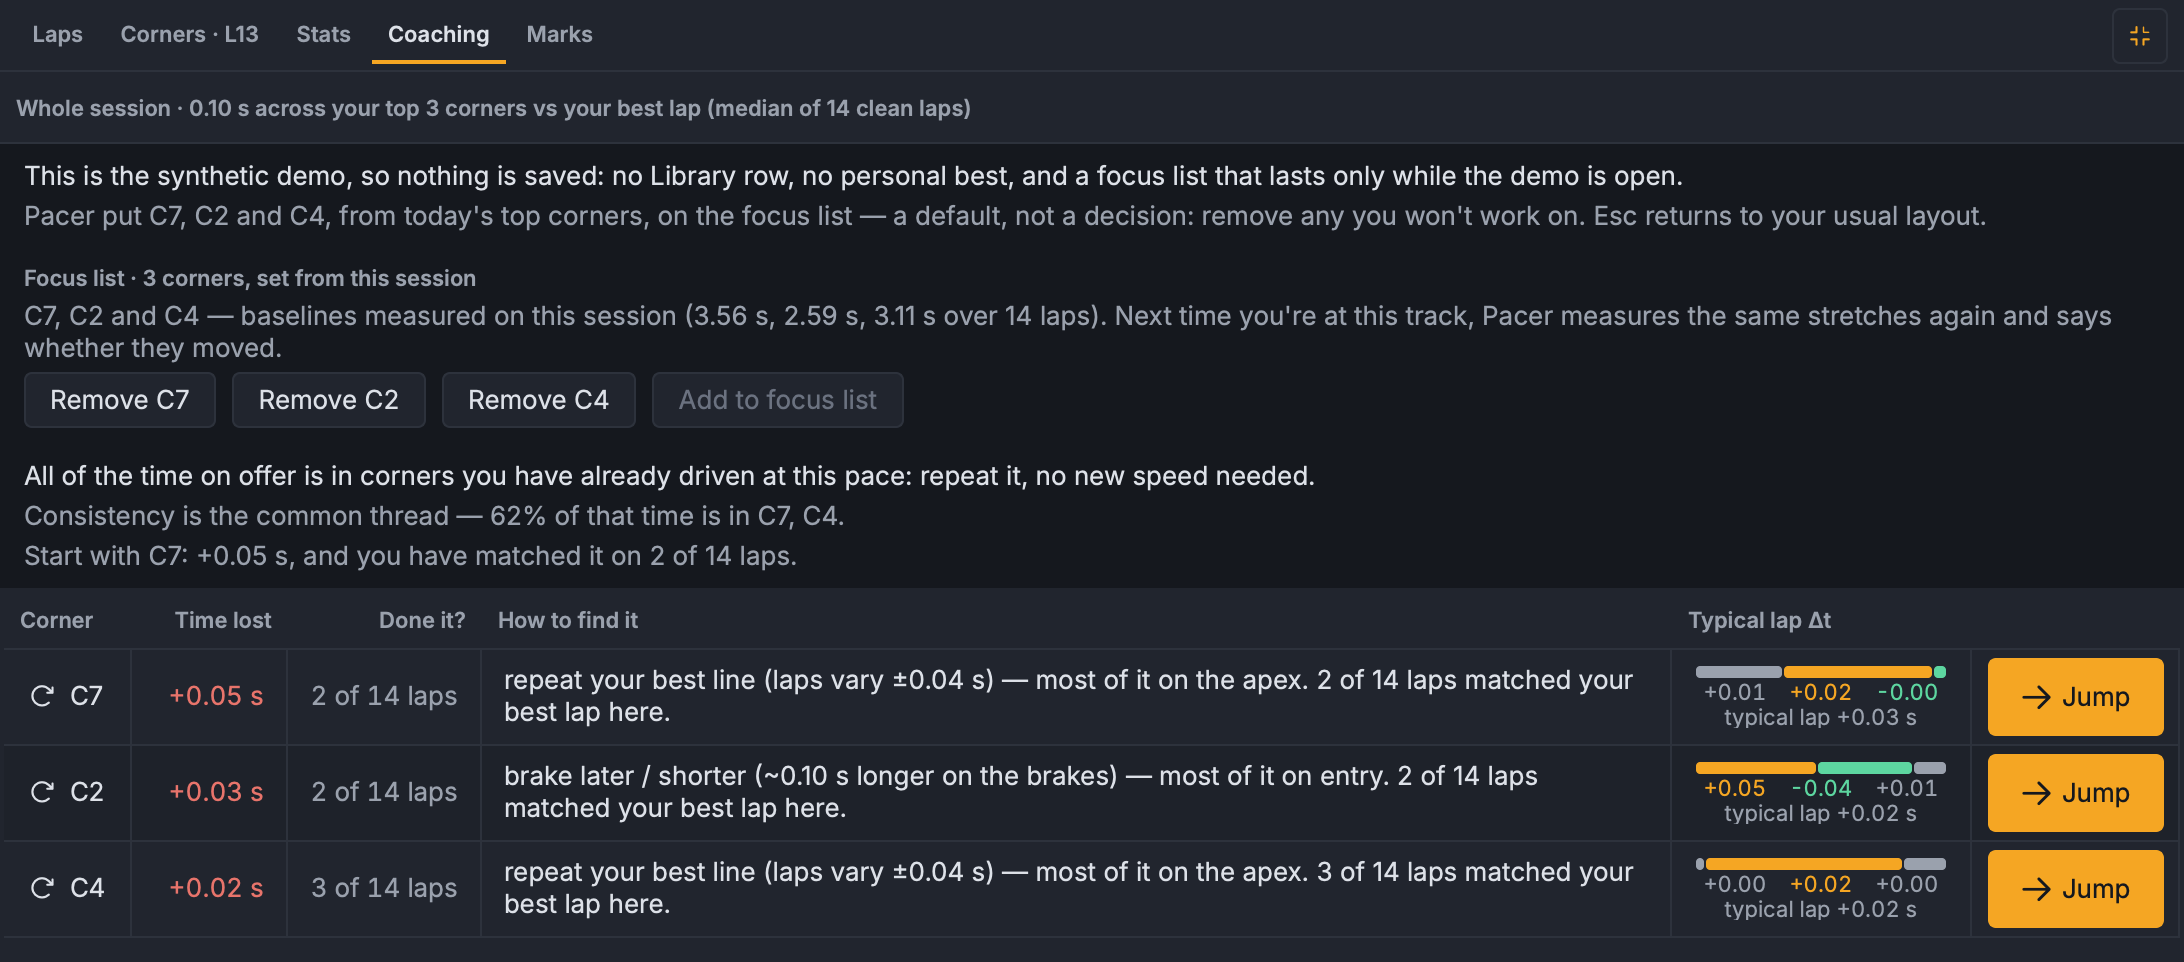
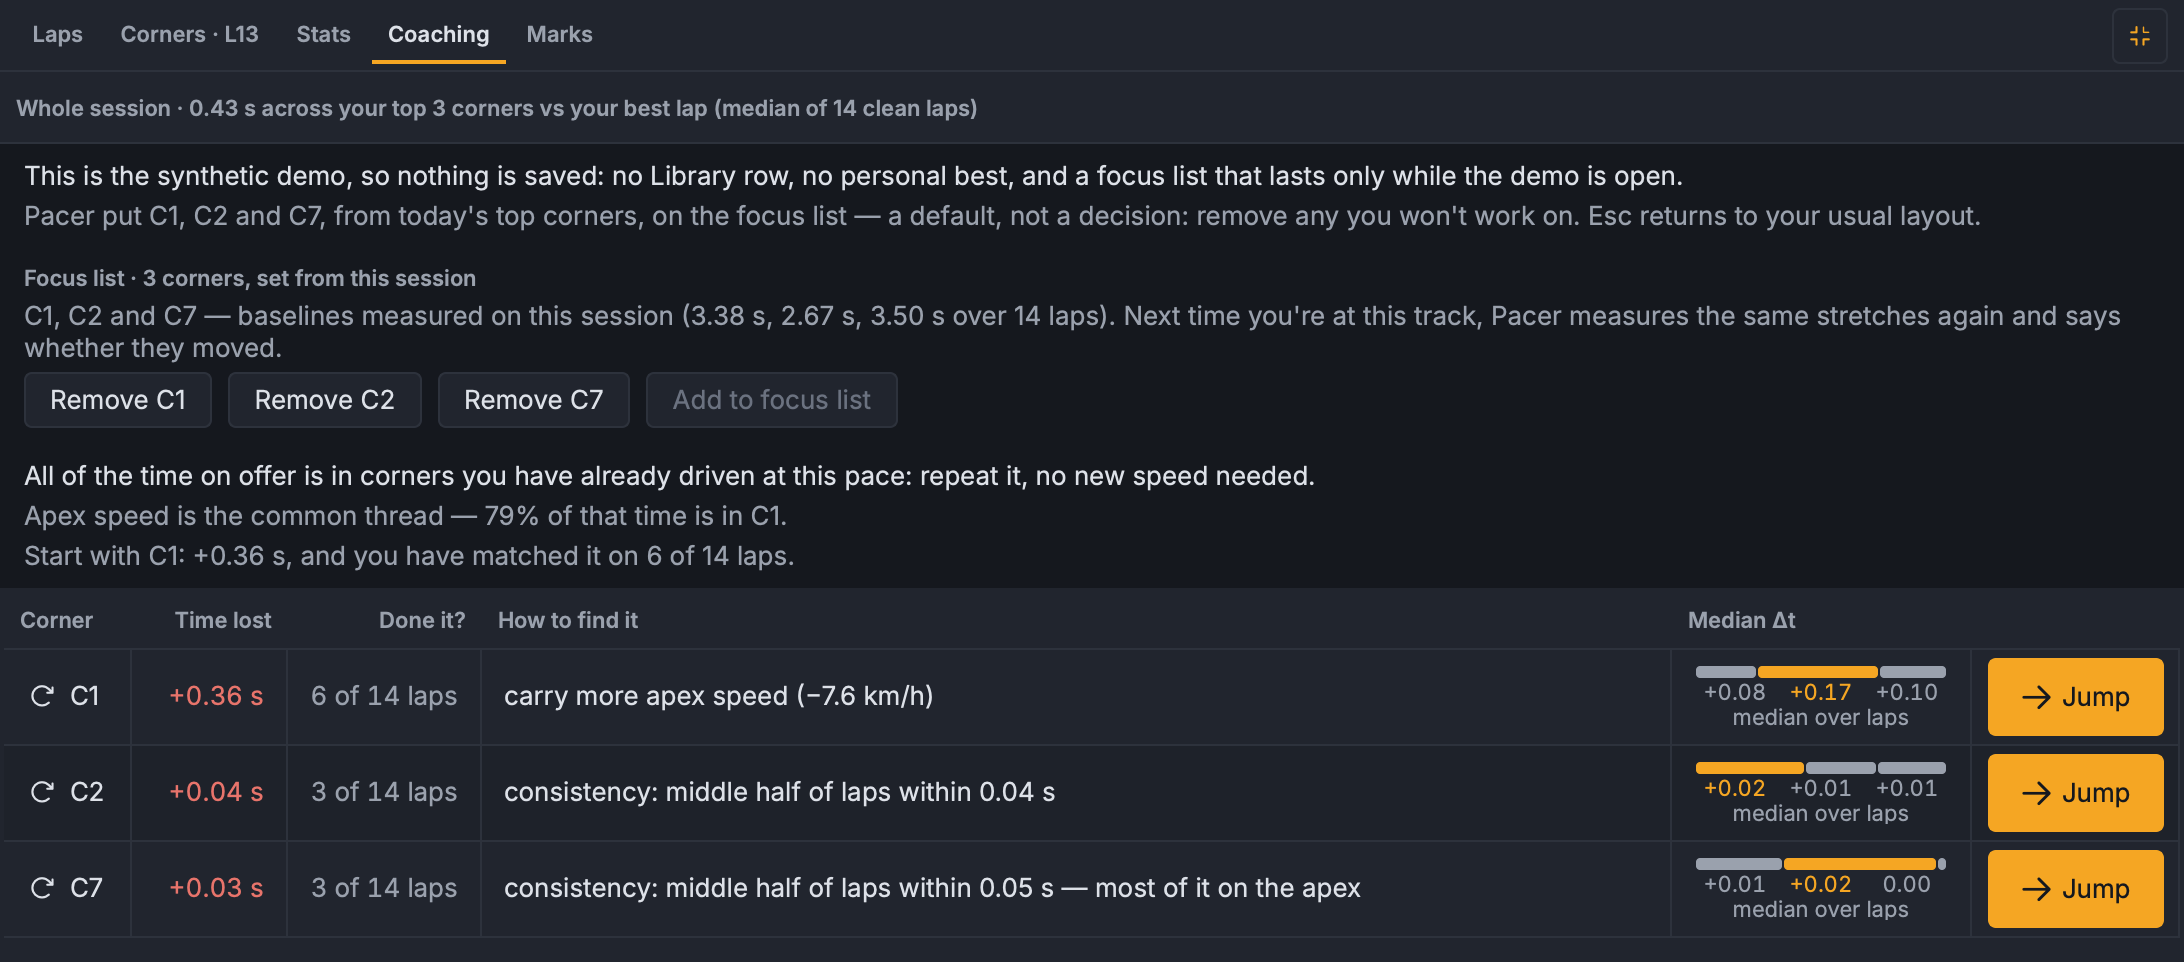
DEMO-1: docs name the pinned demo tag and the planted habit; re-shoot debrief.png on v2
debrief.png is the demo's first open, so the data change forces its re-shoot
(media_capture --only debrief, PACER_DEMO_MP4 = the built v2 file); no other
docs/media file is re-shot. PACKAGING's re-publish procedure names all three
pins and the per-tag cache; FIRST_LAP gets one sentence on the habit.

diff --git a/tests/test_sync_truth.py b/tests/test_sync_truth.py
@@ -15,7 +15,8 @@ the painted point onto the circuit's true centreline and dividing by the true sp
 
 MEASURED (fixed seed, every 3rd frame while moving; one frame at 29.97 fps is 33.4 ms). "Before" is
 this test with both of X2's defects planted back (lag 0.2 s case; the harness stops at the first
-failure), and it reproduces what B2 measured on the published demo, +125 ms (p10 +79, p90 +171):
+failure), and it reproduces what B2 measured on the first published demo (demo-data-v1), +125 ms
+(p10 +79, p90 +171):
 
                                 before X2                       after X2 (all three cases)
     map dot, median             +122.5 ms (p10 +76, p90 +171)   +17.7 .. +19.0 ms

diff --git a/docs/PACKAGING.md b/docs/PACKAGING.md
@@ -120,18 +120,27 @@ python -m studio --demo            # open the synthetic demo session on startup
 Resolution order (`studio/demo.py`):
 
 1. **`PACER_DEMO_MP4`** — an explicit path to a recording you already have.
-2. a cached copy under `~/Library/Application Support/pacer/demo/`.
-3. a **one-time download** of `pacer-demo.mp4` from the `demo-data-v1` pre-release into that
-   cache, kept only if its sha256 matches `_DEMO_SHA256` (override the URL with `PACER_DEMO_URL`).
-   If offline / the download fails, the app falls back to the empty welcome state — it still
-   launches.
+2. a cached copy under `~/Library/Application Support/pacer/demo/<tag>/`, one folder per pinned
+   pre-release (`_DEMO_TAG`): the cache is trusted by existence, so a copy of an older demo is
+   never found again once the pin moves.
+3. a **one-time download** of `pacer-demo.mp4` from the pinned demo-data pre-release
+   (`studio/demo._DEMO_TAG`) into that cache, kept only if its sha256 matches `_DEMO_SHA256`
+   (override the URL with `PACER_DEMO_URL`). If offline / the download fails, the app falls back
+   to the empty welcome state — it still launches.
 
 **The welcome screen's "Open demo" button is gated on steps 1–2 only** (`demo.demo_available()`, an
 offline path lookup), so the app never probes the network on its own; `--demo` on the command line
 runs the full order, download included, and the cache then offers the button on every later
 launch. **Recording the demo video: set `PACER_DEMO_MP4`** and the button points at your clip.
 
+The demo is not a clean session on purpose: since `demo-data-v2` it carries one planted habit
+(`make_demo.DEMO_HABIT`: C1, on 8 of its 14 flying laps), so its debrief has a real call to make
+and a reader can check it against the truth.
+
 To re-publish the demo: `pixi run make-demo -- --out pacer-demo.mp4` (deterministic: the same code
-and pixi env give the same bytes), attach it to a NEW `demo-data-vN` pre-release, and move
-`_DEMO_URL` and `_DEMO_SHA256` in `studio/demo.py` (and `make_demo.PUBLISHED_LAP_MS` if the
-telemetry changed) in the same PR. Do **not** commit it to git.
+and pixi env give the same bytes), attach it to a NEW `demo-data-vN` pre-release as an asset named
+exactly `pacer-demo.mp4`, and in the same PR move the three pins in `studio/demo.py` —
+`_DEMO_TAG` (the URL is built from it, and so is the cache folder), `_DEMO_SHA256` and
+`_DEMO_BYTES` — plus `make_demo.PUBLISHED_LAP_MS` if the telemetry changed. **Never delete or
+replace an older `demo-data-vN`:** older clones pin its exact bytes. Do **not** commit the file to
+git.

diff --git a/studio/docs/module-notes.md b/studio/docs/module-notes.md
@@ -397,7 +397,7 @@ The **session record** (pacer-free AND Qt-free): one record per recording — co
 
 ## `demo.py`
 
-**Demo recording resolution** for `--demo` / the welcome "Open demo": resolves the SYNTHETIC demo session (`studio/dev/make_demo.py`; fetched once at runtime, never committed) via `PACER_DEMO_MP4` → cache → the `demo-data-v1` release asset, kept only if its sha256 is the pinned one. The clips bundled in the `.app` have no real laps, so a first-run user would see an empty studio without this. `demo_available()` is the OFFLINE half (env/cache, no network) and is what gates the welcome button — it was born while the asset was unpublished, and it still keeps the app off the network unless `--demo` asks.
+**Demo recording resolution** for `--demo` / the welcome "Open demo": resolves the SYNTHETIC demo session (`studio/dev/make_demo.py`; fetched once at runtime, never committed) via `PACER_DEMO_MP4` → cache (one folder per pinned tag, so an older demo's copy is never found again) → the pinned demo-data pre-release's asset (`_DEMO_TAG`), kept only if its sha256 is the pinned one. The clips bundled in the `.app` have no real laps, so a first-run user would see an empty studio without this. `demo_available()` is the OFFLINE half (env/cache, no network) and is what gates the welcome button — it was born while the asset was unpublished, and it still keeps the app off the network unless `--demo` asks.
 
 ## `playback_state.py`
 

diff --git a/docs/FIRST_LAP.md b/docs/FIRST_LAP.md
@@ -25,7 +25,9 @@ Your personal best and focus list wait for the whole recording, so part of one n
 > orientation. No person, kart, place or camera footage is in it. Its video is a rendered slate that
 > says so on every frame, with a running timecode and a dot at the kart's true position, so you can
 > check Pacer's map against the picture yourself. The circuit is one Pacer ships, so step 2 below
-> is done for you and the timing opens verified. After that first run the welcome screen offers
+> is done for you and the timing opens verified. One habit is planted in it on purpose — on 8 of
+> its 14 laps the kart brakes early into C1 and carries less speed through it — so its debrief has
+> a real call to make, and one you can check. After that first run the welcome screen offers
 > **Open demo** too; offline, `--demo` says plainly that the download failed.
 
 ## 2 · Set where a lap begins (only on a new track)

diff --git a/THIRD_PARTY_NOTICES.md b/THIRD_PARTY_NOTICES.md
@@ -4,8 +4,8 @@ Pacer's own source code is licensed under **CC BY-NC-SA 4.0** (see [LICENSE](LIC
 on, links against, and (when packaged as a macOS app — see [docs/PACKAGING.md](docs/PACKAGING.md))
 **bundles** the third-party components listed below, each of which is governed by **its own license**,
 not Pacer's. A redistributed binary must carry these notices. Nothing is redistributed today: no
-release carries a build of the app (`demo-data-v1` holds only the synthetic demo recording, which
-is data).
+release carries a build of the app (the `demo-data-vN` pre-releases hold only the synthetic demo
+recording, which is data).
 
 | Component | Role | License |
 |---|---|---|

diff --git a/changes/nl-demo-1.md b/changes/nl-demo-1.md
@@ -1,0 +1,3 @@
+### Changed
+- The `--demo` session carries one planted, fixable habit (C1, on 8 of 14 laps), so its debrief
+  ranks C1 first at 0.36 s against 0.04 s for the next; an older cached demo is not reused.
